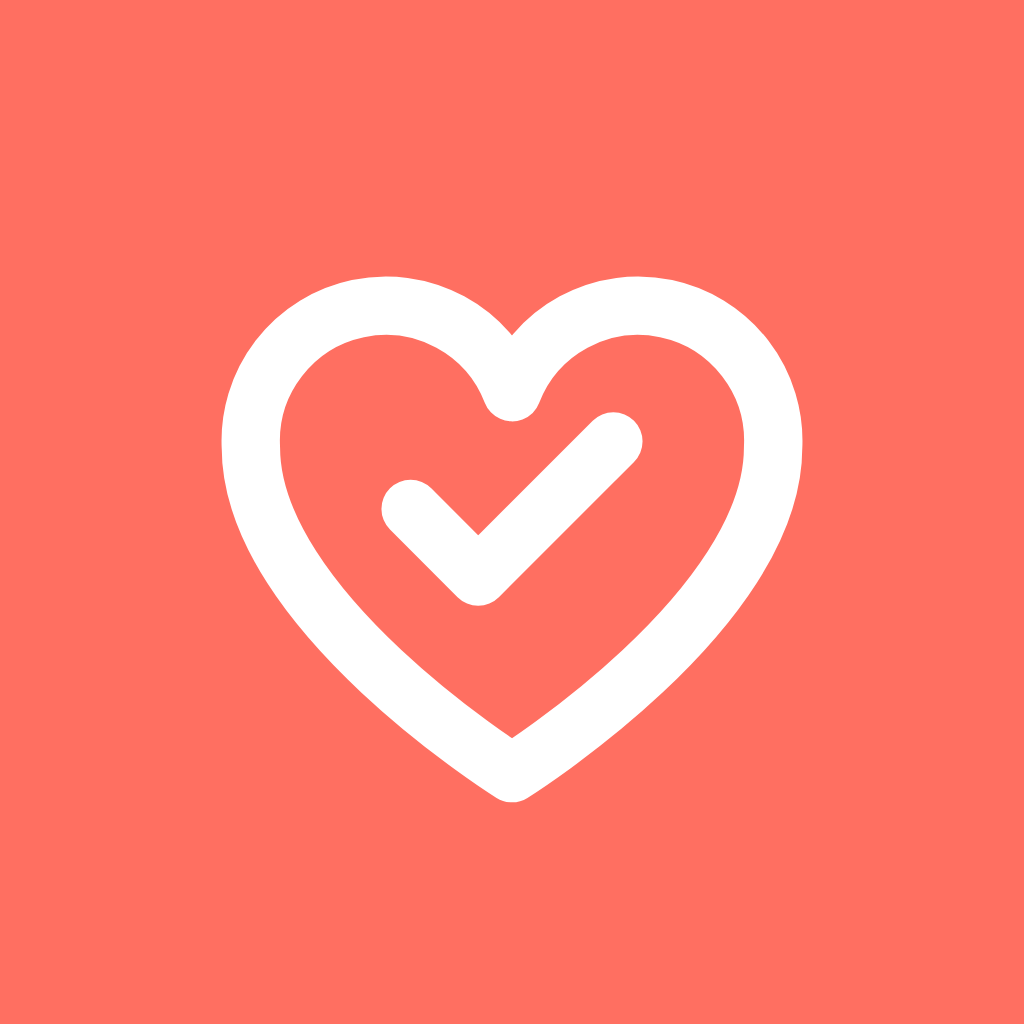
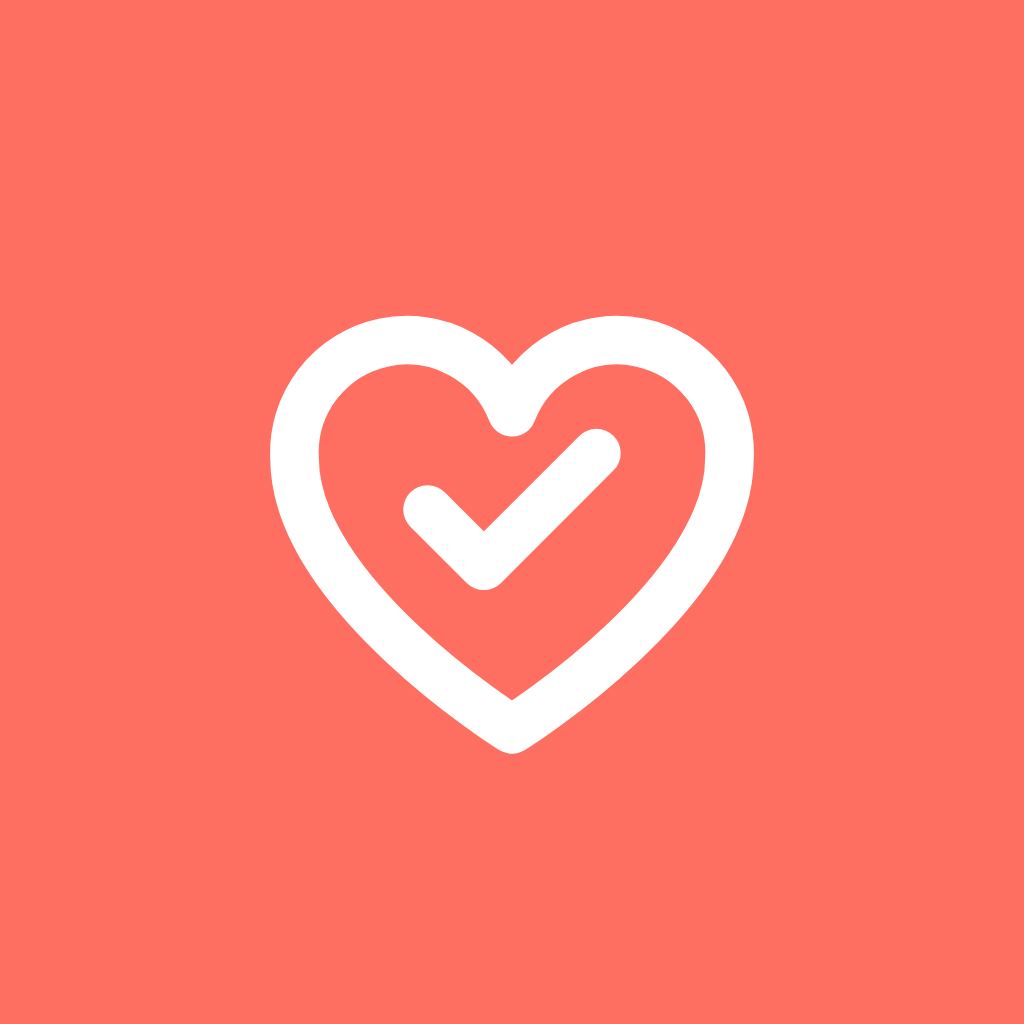
revert: Pick Mark 심볼 자체는 원상복구 — 브랜드 확정 구현(viewBox 64) 유지
마스터 세션 확인: wedding-mark.tsx/site-chrome.ts의 viewBox 64 구현이
앱 전체(아이콘·스플래시·탭·웹·관리자)에 이미 배포된 브랜드 확정본이며,
CLAUDE.md §2 문서 쪽 텍스트(viewBox 24)가 갱신되지 않은 것으로 확인됨.
심볼 모양·좌표·stroke는 손대지 않고 이전 커밋(c425ce1)에서 바꾼 wedding-mark.tsx,
product-symbol.tsx pickMark stroke, 재생성했던 앱 아이콘/스플래시/파비콘
PNG를 원래 값으로 되돌린다.

CLAUDE.md §2 문서 텍스트 자체의 갱신 필요 여부는 이 브랜치 범위 밖이라
사용자 확인이 필요한 별도 사안으로 남겨둔다.

이번 QA에서 발견된 나머지 항목(hover/focus 상태, history/removed의
MaxContentWidth 누락, confirm.tsx 체크 팝 커브 통일)은 심볼과 무관하므로
그대로 유지한다.

Claude-Session: https://claude.ai/code/session_01ScSk1ukHxK3UqfcZSdM46e

diff --git a/packages/ui/src/wedding-mark.tsx b/packages/ui/src/wedding-mark.tsx
@@ -4,21 +4,28 @@ import Svg, { Path } from 'react-native-svg';
 /**
  * 웨딩픽 심볼 — **하트 윤곽선 안에 체크**.
  *
- * 확정된 심볼이다. CLAUDE.md §2의 확정 path를 그대로 쓴다 — 모양(하트·체크)과
- * 기본 색(코랄)은 바꾸지 않는다. 앱 아이콘, 스플래시, Pick 탭, Pick 완료,
- * 최종 결정, 웹, 관리자에서 같은 마크를 쓴다.
+ * 확정된 심볼이다. 모양(하트·체크)과 기본 색(코랄)은 바꾸지 않는다.
+ * 앱 아이콘, 스플래시, Pick 탭, Pick 완료, 최종 결정, 웹, 관리자에서 같은 마크를 쓴다.
+ *
+ * 좌표는 64 칸 격자에 잡았다. 24 칸으로 잡으면 소수점이 붙어 눈으로 고치기 어렵다.
+ * 획 두께까지 포함한 마크의 실제 크기는 53×45이며, 64 칸 한가운데 놓았다 —
+ * 하트는 위가 넓고 아래가 뾰족해서 경로 좌표만 가운데 맞추면 눈에는 내려가 보인다.
  */
-export const MARK_VIEWBOX = 24;
+export const MARK_VIEWBOX = 64;
 
-/** 하트 윤곽. CLAUDE.md §2 확정본. */
+/**
+ * 하트 윤곽. 아래 꼭짓점에서 시작하지 않고 **위 가운데 홈**에서 시작한다 —
+ * 좌우가 같은 순서로 뒤집힌 대칭이라 한쪽을 고치면 반대쪽을 그대로 옮길 수 있다.
+ */
 export const MARK_HEART_PATH =
-  'M12 20.5S3.5 15.2 3.5 9.9A4.4 4.4 0 0 1 12 8.1a4.4 4.4 0 0 1 8.5 1.8c0 5.3-8.5 10.6-8.5 10.6Z';
+  'M32 19 C30 15 26 12 20 12 C13 12 8 17 8 24 C8 35 22 44 32 52 ' +
+  'C42 44 56 35 56 24 C56 17 51 12 44 12 C38 12 34 15 32 19 Z';
 
-/** 체크. 하트 중앙(12.0, 11.9)에 위치. CLAUDE.md §2 확정본. */
-export const MARK_CHECK_PATH = 'M8.7 11.9l2.2 2.2 4.4-4.4';
+/** 체크. 하트 안쪽에만 머무르도록 획 끝을 좌우 봉우리 아래에 둔다. */
+export const MARK_CHECK_PATH = 'M21 28 L28.5 35.5 L45 19';
 
-/** 획 두께. CLAUDE.md §2 확정값. */
-export const MARK_STROKE = 1.9;
+/** 획 두께. 하트와 체크가 같아야 한 손으로 그린 것처럼 보인다. */
+export const MARK_STROKE = 5;
 
 export type WeddingMarkProps = {
   /** 한 변의 길이. 핸드오프 0번의 스플래시는 64. */

diff --git a/packages/ui/src/product-symbol.tsx b/packages/ui/src/product-symbol.tsx
@@ -11,8 +11,7 @@ export function ProductSymbol({ name, size = 24, color = Colors.light.text }: { 
     <Svg width={size} height={size} viewBox="0 0 24 24" fill="none">
       {name === 'house' && <><Path {...common} d="M3.5 10.5 12 3.8l8.5 6.7v9.2H3.5z" /><Path {...common} d="M9 19.7v-5.2h6v5.2M2.5 10.8 12 3l9.5 7.8" /></>}
       {name === 'magnifier' && <><Circle {...common} cx="10.5" cy="10.5" r="6.2" /><Path {...common} d="m15.2 15.2 5 5" /></>}
-      {/* Pick Mark(CLAUDE.md §2 확정본)만 stroke 1.9 — 다른 아이콘의 공통 stroke(1.8)와 별개. */}
-      {name === 'pickMark' && <><Path {...common} strokeWidth={1.9} d="M12 20.5S3.5 15.2 3.5 9.9A4.4 4.4 0 0 1 12 8.1a4.4 4.4 0 0 1 8.5 1.8c0 5.3-8.5 10.6-8.5 10.6Z" /><Path {...common} strokeWidth={1.9} d="m8.7 11.9 2.2 2.2 4.4-4.4" /></>}
+      {name === 'pickMark' && <><Path {...common} d="M12 20.5S3.5 15.2 3.5 9.9A4.4 4.4 0 0 1 12 8.1a4.4 4.4 0 0 1 8.5 1.8c0 5.3-8.5 10.6-8.5 10.6Z" /><Path {...common} d="m8.7 11.9 2.2 2.2 4.4-4.4" /></>}
       {name === 'twoPeople' && <><Circle {...common} cx="8.5" cy="8" r="3" /><Circle {...common} cx="16.5" cy="8" r="3" /><Path {...common} d="M3.8 19c.5-3.2 2.1-5 4.7-5s4.2 1.8 4.7 5M10.8 19c.5-3.2 2.1-5 4.7-5s4.2 1.8 4.7 5" /></>}
       {name === 'person' && <><Circle {...common} cx="12" cy="7.5" r="3.5" /><Path {...common} d="M5.5 20c.7-4 2.8-6 6.5-6s5.8 2 6.5 6" /></>}
       {name === 'hall' && <><Path {...common} d="M4 20h16M6 20v-8h12v8M4 12l8-6 8 6M9 20v-4h6v4" /></>}
